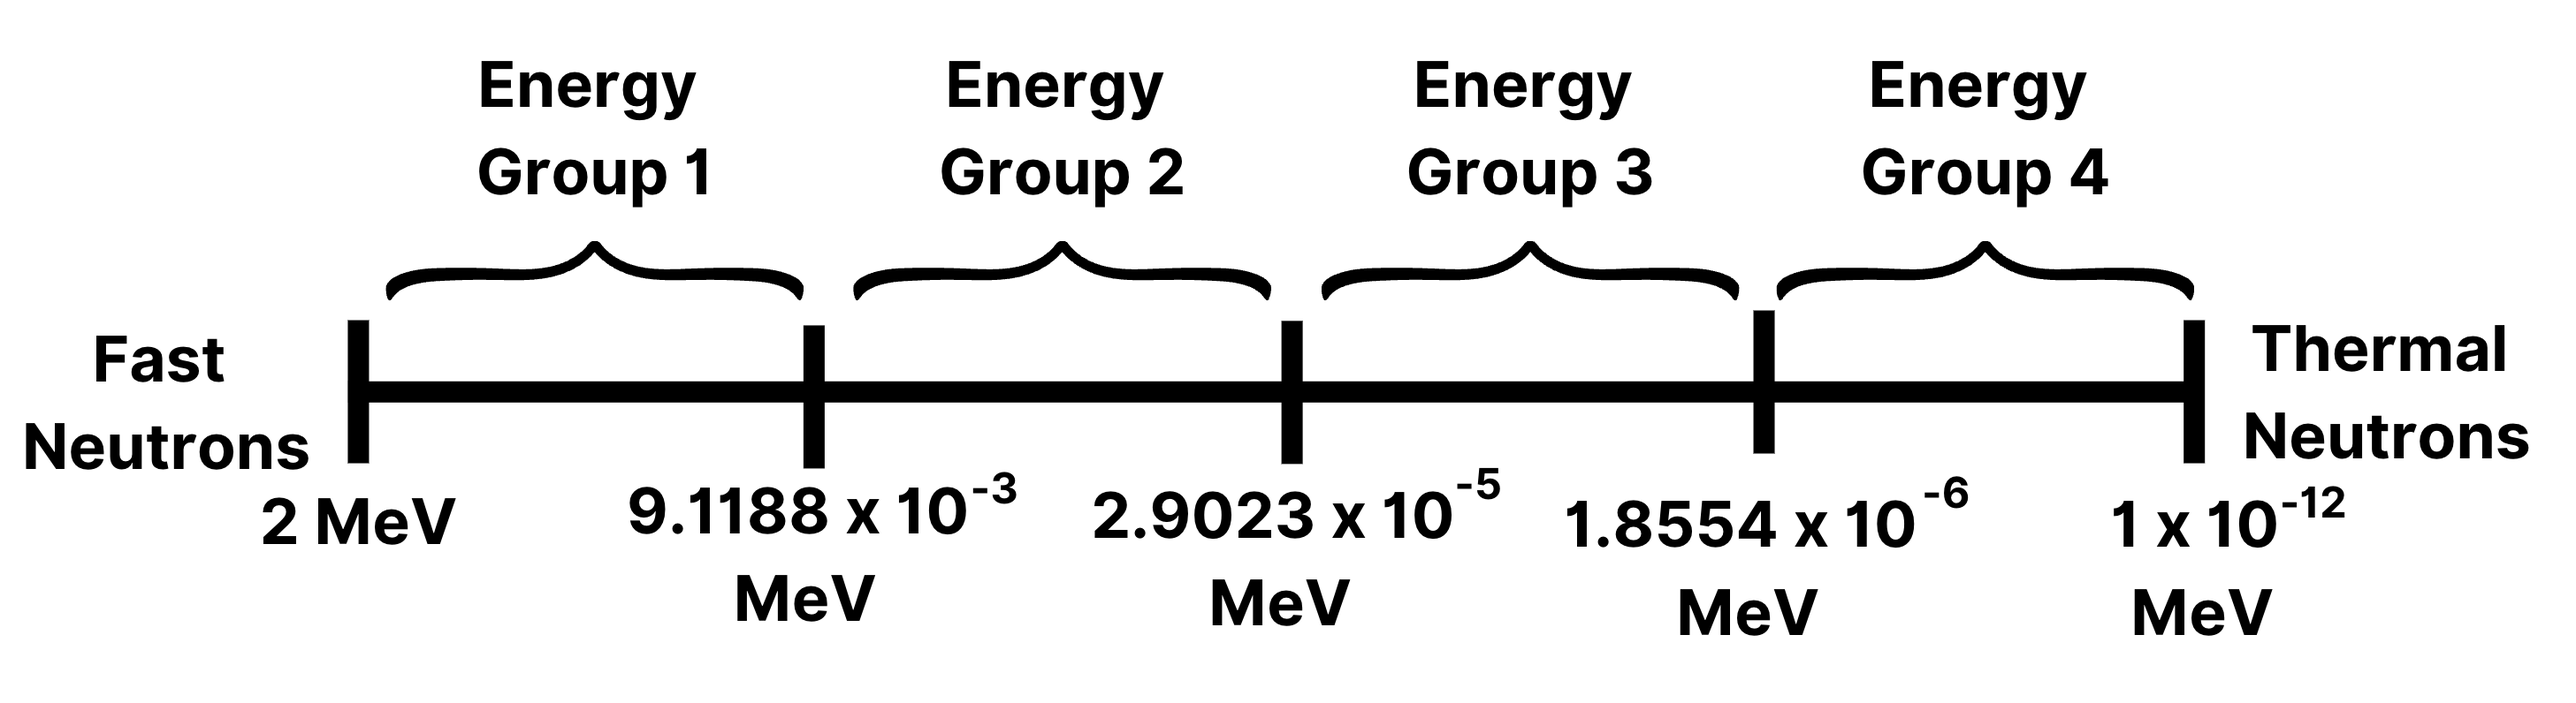
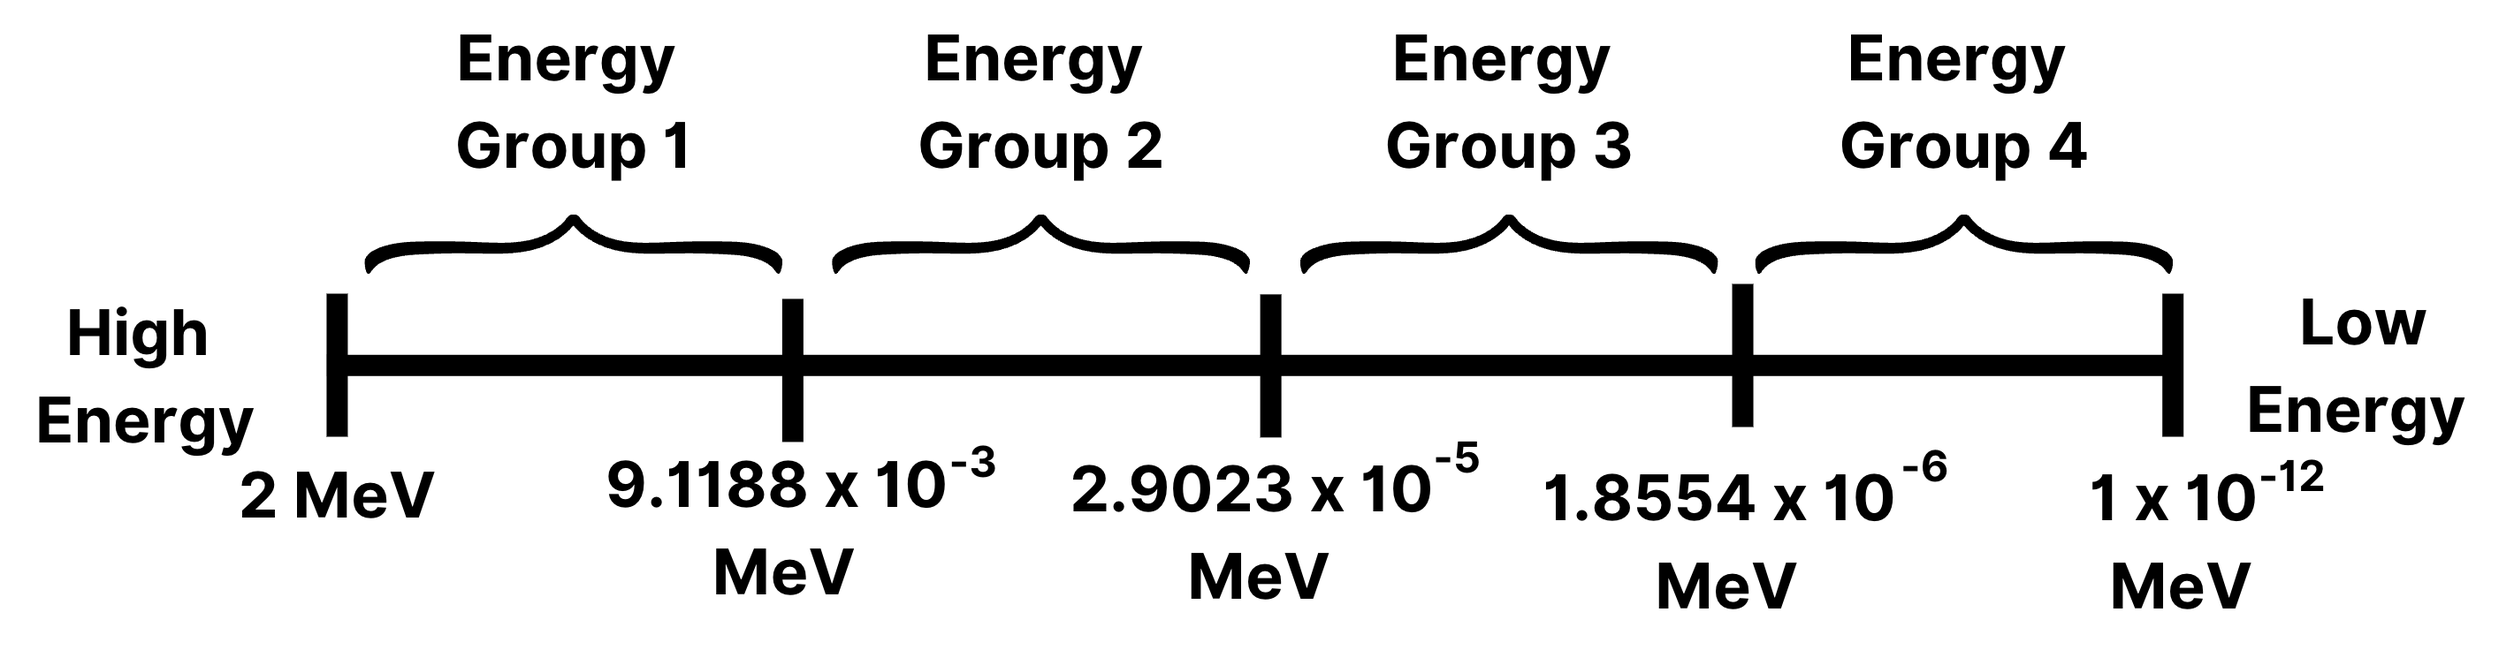
edits

diff --git a/pres/ahtr_model.tex b/pres/ahtr_model.tex
@@ -58,8 +58,9 @@
     \frametitle{AHTR Temperature Model Energy Homogenization}
         \begin{figure}[]
             \centering
-            \caption{4-group energy structures for AHTR geometry 
-            derived by Gentry et al \cite{gentry_development_2016}.}
+            \caption{4-group energy structure used for AHTR modeling  
+            derived by Gentry et al \cite{gentry_development_2016}.
+            Figure is not to scale. }
             \includegraphics[width=\linewidth]{figures/four-group-structure.png}
         \end{figure}
 \end{frame}
@@ -72,7 +73,7 @@
         and each fuel stripe (36)
     \begin{figure}[]
             \centering
-            \includegraphics[width=0.65\linewidth]{figures/assembly_mg_pres.png}
+            \includegraphics[width=0.8\linewidth]{figures/assembly_mg_pres.png}
         \caption{AHTR assembly spatial homogenization for group constant generation.}
     \end{figure}
 \end{frame}
@@ -80,25 +81,25 @@
 \subsection{Key Neutronics Parameters Verification}
 \begin{frame}
     \frametitle{AHTR Temp Model Key Neutronics Parameter Verification}
-    I \textbf{verify acceptable spatial homogenization and energy discretization} by 
+    \visible<1->{I \textbf{verify acceptable spatial homogenization and energy discretization} by 
     comparing key neutronics parameters (KNPs) between: 
     \begin{itemize} 
         \item OpenMC simulation with continuous energy and TRISO-level spatial fidelity
         \item Moltres simulation with 4-group energy and spatial homogenization
-    \end{itemize}
-    \textbf{KNPs}: $k_{eff}$, reactivity coefficients, flux distribution, and neutron 
+    \end{itemize}}
+    \visible<2->{\textbf{KNPs}: $k_{eff}$, reactivity coefficients, flux distribution, and neutron 
     spectrum
     \begin{itemize}
         \item All comparisons are to verify that the Moltres model is replicating the 
         OpenMC model's neutronics correctly
-    \end{itemize}
-    \textbf{Reactivity coefficients and flux distribution}
+    \end{itemize}}
+    \visible<3->{\textbf{Reactivity coefficients and flux distribution}
     \begin{itemize}
         \item Ensure that \textbf{Moltres accurately calculates the AHTR's temperature 
         distribution}
         \item Reactivity coefficients capture temperature reactivity feedback on the flux
         \item Moltres source term is dependent on flux 
-    \end{itemize}
+    \end{itemize}}
 \end{frame}
 
 \begin{frame}
